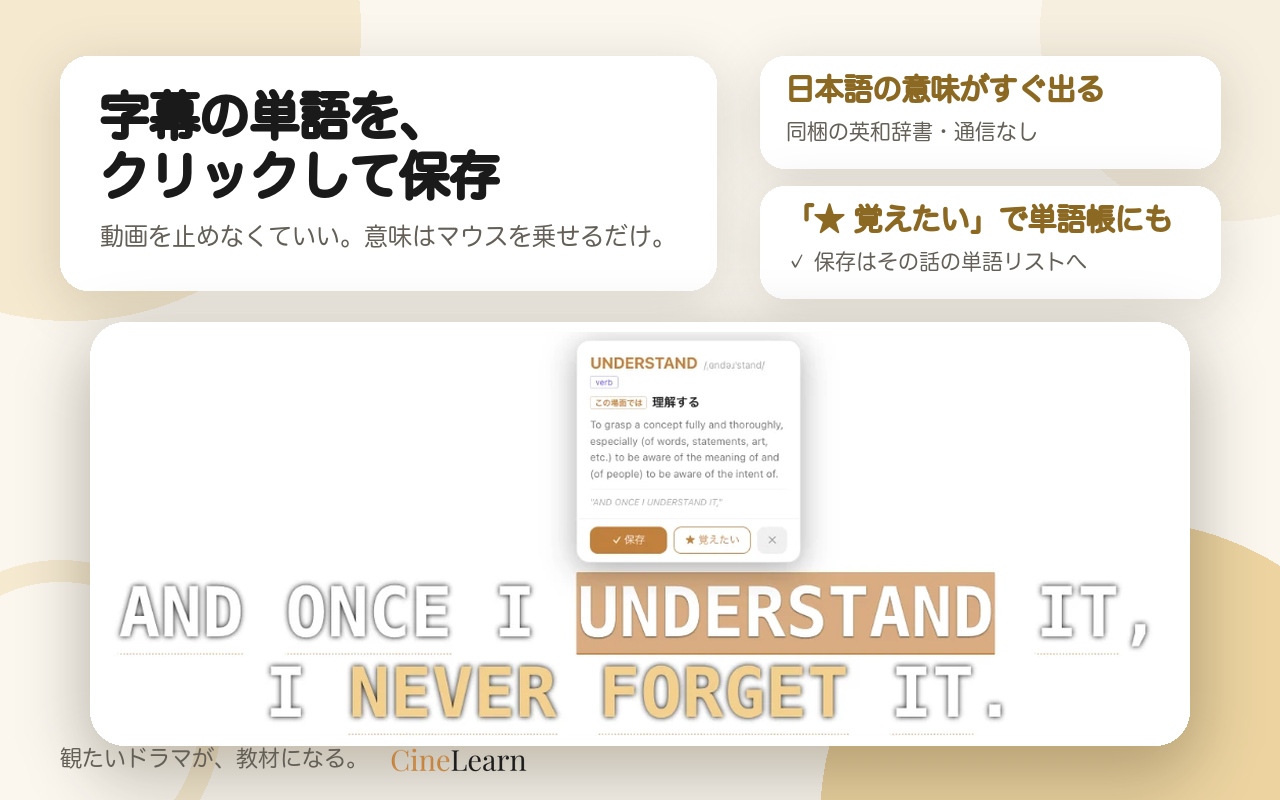
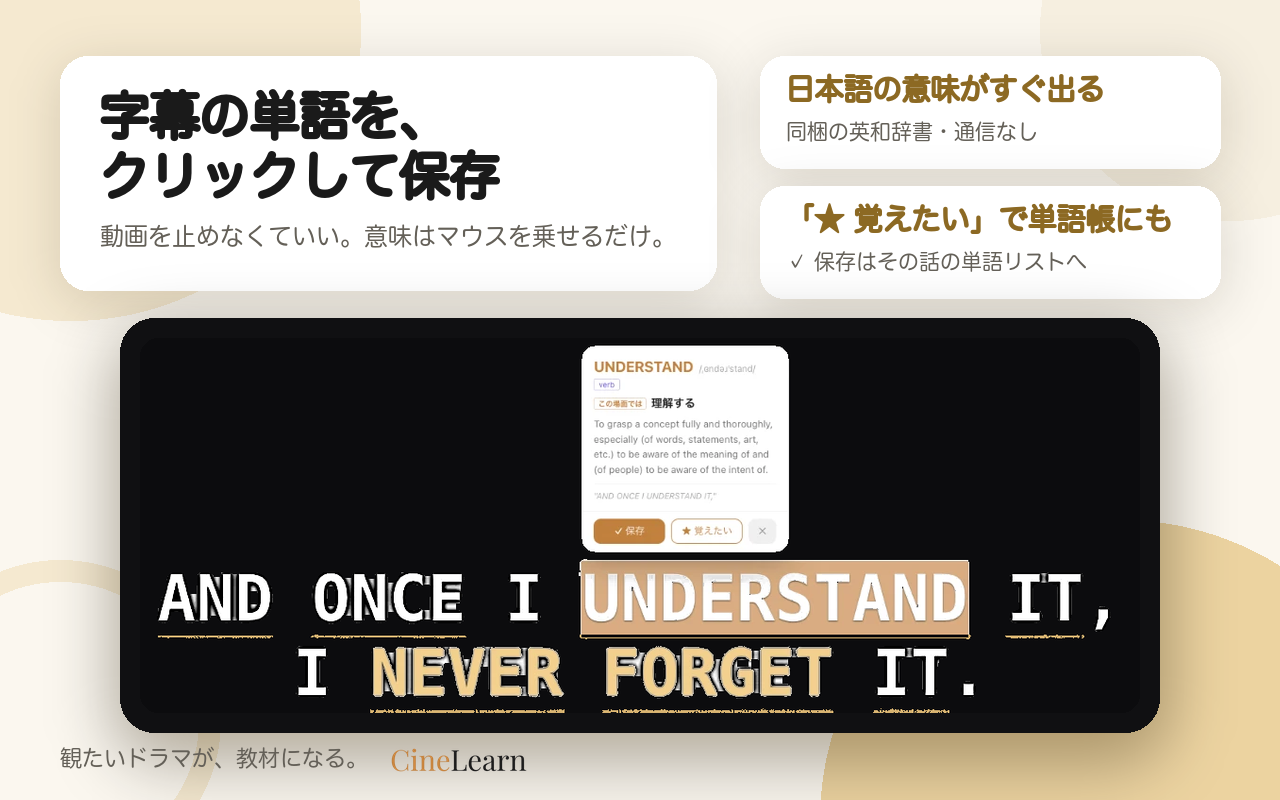
marketing: v1.2.12 のストア画像 A2・A4 の背景を黒に（白い字幕を読めるように・受付経由オーナー依頼 2026-11-08）
- darken_popup_bg.py（新規）: 写真の白い映像部分（配信側の保護で白く写る）を黒に。字幕の白文字・クリック中の語の地色・クリーム色の印・ポップアップは残し、字幕の影を暗い方へ寄せ、点線の印をクリーム色に戻す
- make_cards.py: A2・A4 を黒背景の元画像と黒い枠に。A2 は下の文字と重ならないようパネルを少し小さく

diff --git a/marketing/x-launch-2026-10/darken_popup_bg.py b/marketing/x-launch-2026-10/darken_popup_bg.py
@@ -1,0 +1,78 @@
+"""v1.2.12 のストア画像 A2・A4 用: オーナーの写真の白い映像部分（配信側の保護で白く写る）を黒に置き換える。
+字幕の白文字は暗い縁取りがあるので、画像の外周から「明るくて色の薄い画素」だけを塗りつぶせば縁取りで止まる。
+文字の穴（O・A・D などの内側）は外から届かないので、穴の外周がすぐ文字の白に接しているかで見分けて黒にする。
+ポップアップ（白いカード）は矩形で守る。字幕の印（クリーム色・点線）とポップアップはそのまま残す。
+実行: python3 darken_popup_bg.py → src/extension-popup-star-v1.2.12-dark.png"""
+import numpy as np
+from PIL import Image
+from scipy import ndimage as ndi
+import os
+HERE = os.path.dirname(os.path.abspath(__file__))
+SRC = f'{HERE}/src/extension-popup-star-v1.2.12.png'
+OUT = f'{HERE}/src/extension-popup-star-v1.2.12-dark.png'
+BLACK = np.array([12, 12, 14], dtype=np.uint8)  # 再生画面の暗い場面に近い色
+
+a = np.asarray(Image.open(SRC).convert('RGB')).astype(np.int16)
+h, w, _ = a.shape
+bright = a.mean(axis=2)
+sat = a.max(axis=2) - a.min(axis=2)
+SUB_TOP = 870  # 字幕の文字の上端（実測 872・これより上はクリック中の語の地色だけ）
+
+# ポップアップ（白いカード）は角の丸い形で守る（実測の矩形・半径14px）
+cx0, cy0, cx1, cy1, r = 938, 633, 1158, 852, 14
+yy, xx = np.mgrid[0:h, 0:w]
+in_rect = (xx >= cx0) & (xx < cx1) & (yy >= cy0) & (yy < cy1)
+corner = np.zeros((h, w), bool)
+for (ox, oy) in [(cx0 + r, cy0 + r), (cx1 - r - 1, cy0 + r), (cx0 + r, cy1 - r - 1), (cx1 - r - 1, cy1 - r - 1)]:
+    q = ((xx < cx0 + r) if ox == cx0 + r else (xx > cx1 - r - 1)) & ((yy < cy0 + r) if oy == cy0 + r else (yy > cy1 - r - 1))
+    corner |= q & ((xx - ox) ** 2 + (yy - oy) ** 2 > r * r)
+card = in_rect & ~corner
+
+# 字幕の行より上: 字幕は無いので、カード以外の色の薄い明るい画素（映像の白・カードの影の灰）を全部黒に
+upper = (yy < SUB_TOP) & ~card & (sat <= 14) & (bright >= 120)
+
+# 字幕の行: 文字の縁は 240 台のうっすらした影で囲まれているので、真っ白（252 以上）だけを外周からたどる
+white = (bright >= 252) & (sat <= 6) & (yy >= SUB_TOP)
+lab, n = ndi.label(white | upper)
+edge_labels = set(np.unique(np.concatenate([lab[0], lab[-1], lab[:, 0], lab[:, -1]]))) - {0}
+outside = np.isin(lab, list(edge_labels)) & (yy >= SUB_TOP)
+
+# 文字の穴（O・A・D などの内側）: 外に届かない真っ白の島のうち、周り 6px に外側の背景が無いもの
+holes = np.zeros((h, w), bool)
+ring_k = np.ones((13, 13), bool)
+lab2, n2 = ndi.label(white & ~outside)
+for i in range(1, n2 + 1):
+    comp = lab2 == i
+    size = int(comp.sum())
+    if size < 6 or size > 4000:
+        continue
+    ring = ndi.binary_dilation(comp, ring_k) & ~comp
+    if (outside & ring).sum() > 3:  # 外側の背景に接している＝文字の本体
+        continue
+    if ((sat > 30) & ring).sum() > 0.4 * ring.sum():  # 周りの多くが色の付いた印（クリック中の語の地色）＝印の中の文字
+        continue
+    holes |= comp
+
+dark = upper | outside | holes
+out = a.astype(np.uint8).copy()
+out[dark] = BLACK
+# 字幕の影: 白い背景の上では薄い灰（200〜250）に写っている。黒い背景では本物と同じく暗い影に見えるよう、
+#   色の薄い灰だけを暗い方へ寄せる（文字の白 252 以上と、色の付いた印・カードには触れない）
+band = (yy >= SUB_TOP - 6) & ~card & ~dark & (sat <= 14) & (bright < 252)
+v = bright[band]
+nv = np.clip((v - 200) * 255.0 / 52.0, 0, 255)
+out[band] = np.stack([nv, nv, nv], axis=1).astype(np.uint8)
+# 影の外側の縁（影から白い背景へ戻る途中の明るい画素）は背景の続きなので黒に。背景から 3px 以内の色の薄い画素が対象
+#   （文字の内側の縁は文字の白に接していて、背景からは影の厚み 4〜6px 離れているので触れない）
+rim = ndi.binary_dilation(dark, np.ones((3, 3), bool), iterations=3) & ~dark & ~card & (sat <= 14) & (yy >= SUB_TOP - 6)
+out[rim] = BLACK
+# 字幕の下の細い点線（他の作品で出会った語・単語リストの語の印）: 白い背景の上ではごく淡い暖色に写っている。
+#   黒い背景で印として読めるよう、点線の帯（実測 y=939〜943・1017〜1022）の暖色の画素をクリーム色にする。
+CREAM = np.array([214, 178, 112], dtype=np.uint8)
+dots_rows = ((yy >= 939) & (yy <= 943)) | ((yy >= 1017) & (yy <= 1022))
+warm = (a[..., 0] - a[..., 2] >= 6) & (bright >= 200)
+dots = dots_rows & warm & ~card
+out[dots] = CREAM
+out[dots_rows & ~warm & ~card] = BLACK
+Image.fromarray(out).save(OUT, optimize=True)
+print('saved', OUT, 'upper', int(upper.sum()), 'outside', int(outside.sum()), 'holes', int(holes.sum()))

diff --git a/marketing/x-launch-2026-10/make_cards.py b/marketing/x-launch-2026-10/make_cards.py
@@ -167,7 +167,7 @@ def make_cws():
     # A2 字幕クリック→意味→保存（UI主役・映像なし）
     panel_card('字幕の単語を、\nクリックして保存','動画を止めなくていい。意味はマウスを乗せるだけ。',
         [('日本語の意味がすぐ出る','同梱の英和辞書・通信なし'),('「★ 覚えたい」で単語帳にも','✓ 保存はその話の単語リストへ')],
-        f'{A}/02-subtitle-click-save.png','extension-popup-star-v1.2.12.png',(470,625,1530,1022),panel_y=322,panel_w=1080,light=True)  # v1.2.12: ★ありのポップアップ（オーナー実機 2026-11-08・映像は配信側の保護で白）
+        f'{A}/02-subtitle-click-save.png','extension-popup-star-v1.2.12-dark.png',(470,625,1530,1022),panel_y=318,panel_w=1000)  # v1.2.12: ★ありのポップアップ（オーナー実機 2026-11-08）。映像は配信側の保護で白く写るので、darken_popup_bg.py で背景を黒に（白い字幕を読めるように・オーナー依頼）
     # A3 予習画面
     shot_card('観る前に3分。\nこの話で覚えるべき語だけ','作品と話数を選ぶだけで、重要語のリストに。',
         [('基礎単語は自動でスキップ','覚えるべき語だけに絞る'),('予習・復習は学習アプリで','拡張で保存した語と同期')],
@@ -175,7 +175,7 @@ def make_cws():
     # A4 字幕マーカー（クリーム色＋点線）
     panel_card('他の作品で覚えた単語に、\n字幕の中で再会','控えめな印。設定でオフにもできる。',
         [('淡いクリーム色の印','保存した語・この話の予習語'),('細い点線の印','他の作品で出会った語。出所も分かる')],
-        f'{A}/04-subtitle-markers.png','extension-popup-star-v1.2.12.png',(470,861,1530,1022),panel_y=420,panel_w=1160,chip_w=520,light=True)
+        f'{A}/04-subtitle-markers.png','extension-popup-star-v1.2.12-dark.png',(470,861,1530,1022),panel_y=420,panel_w=1160,chip_w=520)
     # A5 復習カード（3段階採点）
     shot_card('忘れる前のタイミングで\n復習を提案','間隔反復（SM-2）。3段階で採点するだけ。',
         [('知ってた／うろ覚え／知らなかった','採点で次に出る間隔が変わる'),('例文はあのセリフ','出典つきで文脈ごと思い出す')],
